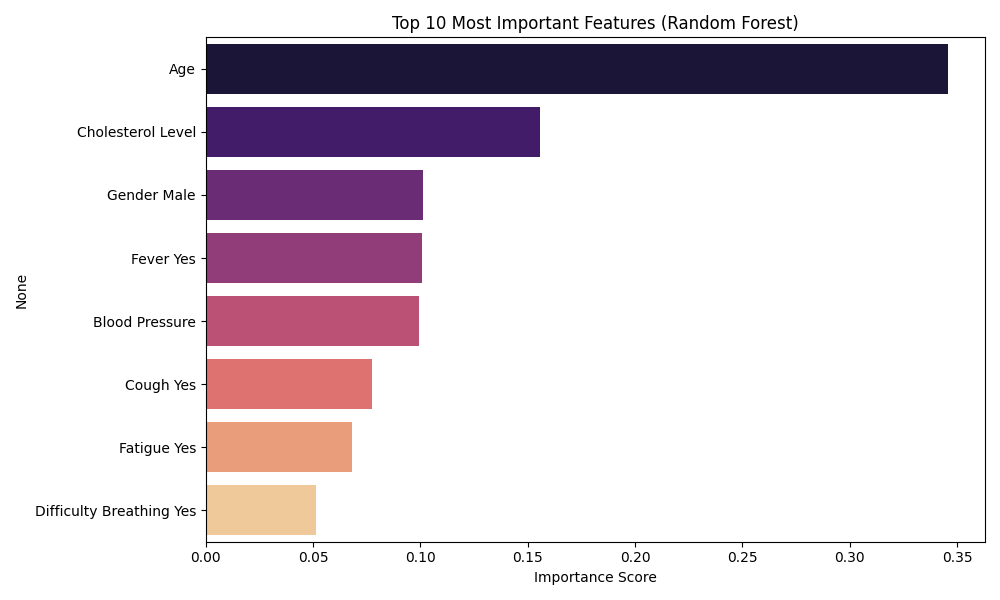
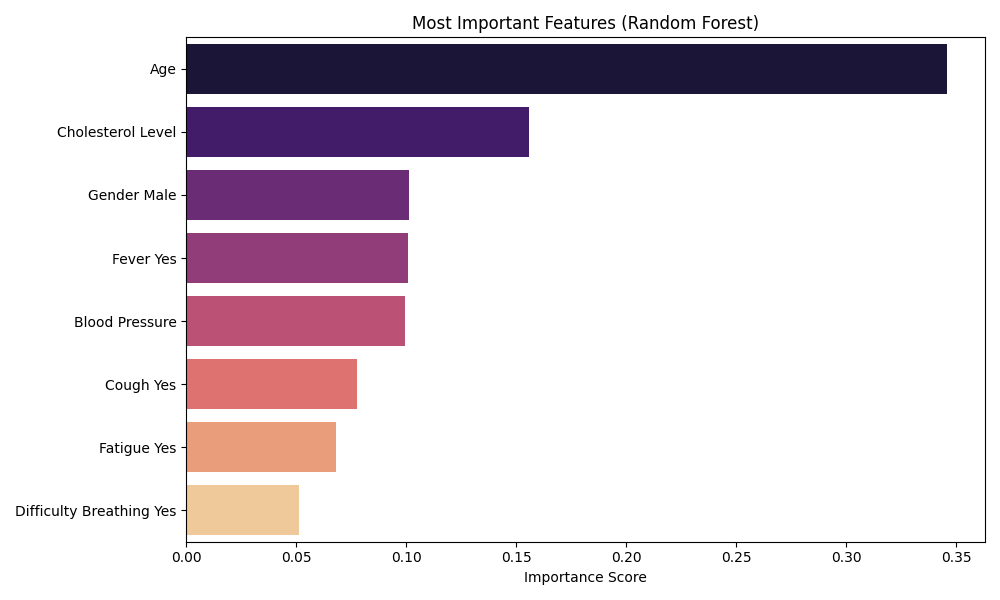
Update README

diff --git a/disease_symptom_analysis_project/notebooks/03_modeling_baseline.py b/disease_symptom_analysis_project/notebooks/03_modeling_baseline.py
@@ -182,8 +182,9 @@ sns.barplot(
     palette="magma",
     legend=False
 )
-plt.title("Top 10 Most Important Features (Random Forest)")
+plt.title("Most Important Features (Random Forest)")
 plt.xlabel("Importance Score")
+plt.ylabel("")
 plt.tight_layout()
 plt.savefig("../figures/07_feature_importance.png")
 plt.show()
@@ -196,18 +197,17 @@ print("\n" + "=" * 40)
 print("INSIGHTS & CONCLUSIONS")
 print("=" * 40)
 print(f"""
-- Model Performance: Random Forest ({results.iloc[1]['Accuracy']:.2%}) significantly 
+- Random Forest ({results.iloc[1]['Accuracy']:.2%}) significantly 
   outperforms Logistic Regression ({results.iloc[0]['Accuracy']:.2%}). 
   This suggests that the relationship between symptoms and patient outcomes is 
   complex and non-linear rather than a simple additive effect.
 
-- Key Drivers: Age is the most dominant predictor, followed by systemic health 
-  indicators like Cholesterol and Blood Pressure.
+- Age has the highest feature importance, followed by Cholesterol Level.
 
-- Feature Logic: The use of Ordinal Encoding ensured the model respected the 
+- The use of Ordinal Encoding ensured the model respected the 
   biological gradient (Low < Normal < High) of health metrics.
 
-- Data Context: The small sample size (N=349) and 
-  intentional duplicates mean these results should be viewed as a 
+- The small sample size (N=349) and intentional
+duplicates mean these results should be viewed as a 
   methodological baseline rather than clinical fact.
 """)

diff --git a/disease_symptom_analysis_project/README.md b/disease_symptom_analysis_project/README.md
@@ -95,9 +95,7 @@ Key observations:
 - Asthma and Stroke are among the most frequent diseases in the dataset.
 - Symptom prevalence varies significantly across diseases.
 - Fever and Difficulty Breathing show the strongest association with Positive outcomes.
-- Age alone does not strongly separate outcome classes visually; however, modeling indicates that age gains predictive value when combined with clinical indicators.
-
-Overall, the visualizations indicate that symptom patterns contribute more predictive signal than demographic variables, supporting the use of symptom-based features in baseline modeling.
+- While individual symptoms provide meaningful signals visually, demographic and systemic clinical indicators (like Age and Cholesterol) ultimately provide the strongest baseline for predictive modeling.
 
 ---
 
@@ -144,8 +142,7 @@ Tree-based models successfully identified that demographic and systemic health i
 <img src="figures/07_feature_importance.png" width="500">
 
 - **Age** is the most dominant predictor with an importance score of 0.34.
-- **Cholesterol Level** and **Blood Pressure** contribute significantly more to the final prediction than any isolated symptom.
-- While individual symptoms like **Fever** and **Cough** provide meaningful signals, their impact is smaller compared to the patient's broader clinical profile.
+- **Cholesterol Level** is the second most critical feature, highlighting the importance of systemic health metrics.
 
 ---
 
